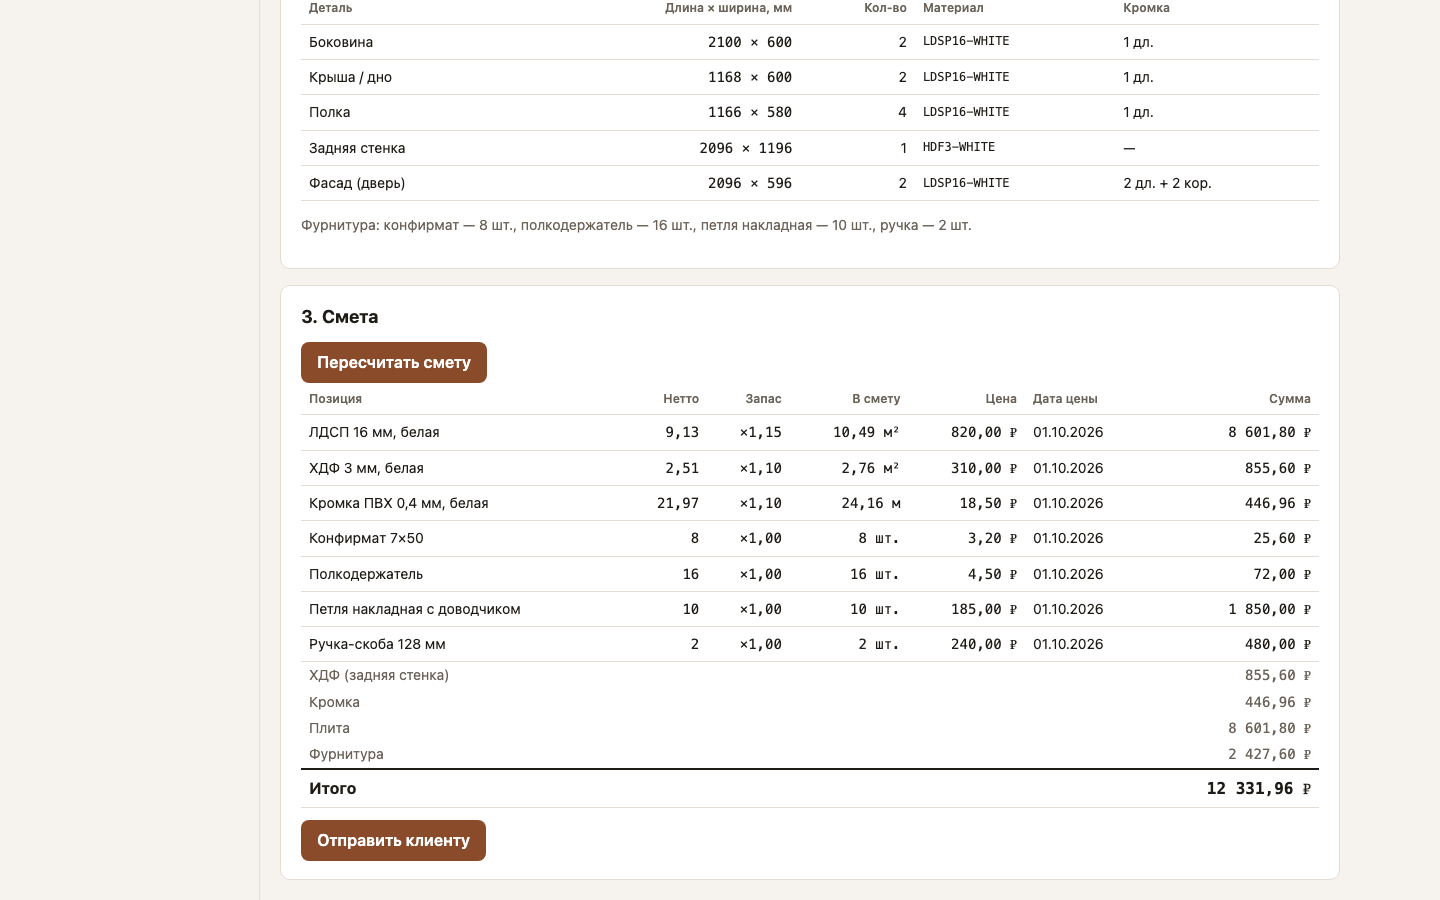
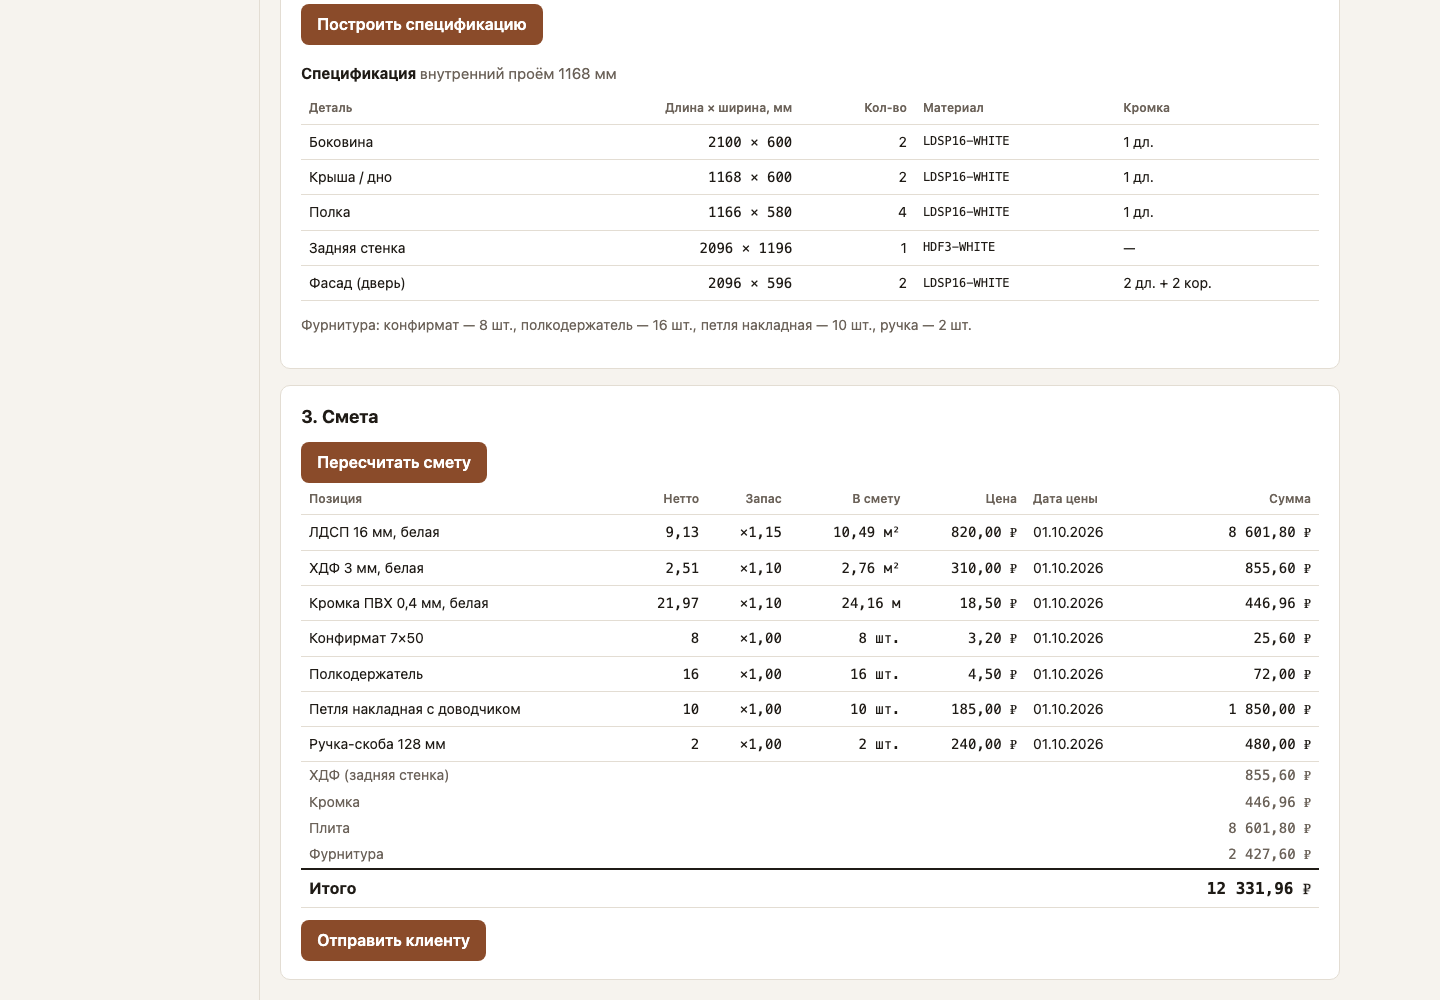
docs: ADR-0001 про стек, внешний аудит в 04, v0.3.2 в релизах, разведённые подписи BPMN
Замечания v0.3.3 описаны как внешний аудит (не Codex), BUG-12 тоже.
Абзац-повтор README убран из ADR-0003. Прогон 05.11: 91 pytest, 97 %, 19 Vitest, 7 e2e.
Смета на скриншоте целиком.

diff --git a/docs/CHANGELOG.md b/docs/CHANGELOG.md
@@ -4,35 +4,35 @@
 Версии — этапы сборки кейса: MVP, исправления по ревью, второй круг ревью.
 
 ## [Unreleased]
-### Added
+### Добавлено
 - Интерфейс `AccountingExporter` и заглушка обмена с учётной системой.
 
 ## [0.3.4] — 2026-11-04
 Находки второго круга ревью Codex.
-### Fixed
+### Исправлено
 - BUG-13: статус «отправлена» ставился до отправки письма. Теперь сначала отправка с ключом идемпотентности, при сбое 502 и прежний статус, повтор разрешён.
 - Параллельные сохранения полей в интерфейсе идут по очереди: поздний ответ раннего запроса не стирает свежие поля.
 - Парсер понимает «120 на 210» (ширина и высота, см → мм), как в примере README.
-### Changed
+### Изменено
 - Контракт: ответ 502 у `POST /requests/{id}/transition`.
 
 ## [0.3.3] — 2026-11-04
-Исправления по повторному ревью.
-### Fixed
+Исправления по внешнему аудиту.
+### Исправлено
 - BUG-12: у числа полок и дверей не было верхней границы, теперь 10 и 4 (как в правилах конструкции), иначе 422.
 - Интеграционные тесты падали на базе с чужой `alembic_version`: перед миграциями схема пересоздаётся (только на базе `*_test`).
 - В итогах сметы подпись «Задняя стенка» стояла рядом с названиями материалов, теперь «ХДФ (задняя стенка)».
-### Changed
+### Изменено
 - Фронтенд собирается на Node 24, как в CI и README.
 - `GET /api/health` в контракте без ответа 422.
 
 ## [0.3.2] — 2026-11-04
-### Fixed
+### Исправлено
 - BUG-11: в смете нетто показывалось сырым Decimal, запас то «×1,15», то «×1,1». Теперь м² и м — 2 знака, штуки — целые, запас ×1,10; расчёт не менялся.
 
 ## [0.3.1] — 2026-11-03
 Исправления по ревью Codex R-01…R-10, см. 04-ai-development.md.
-### Fixed
+### Исправлено
 - BUG-06, BUG-07: смета от заменённой конструкции и двойная отправка — блокировка строки заявки, уведомление после фиксации статуса.
 - BUG-08: интерфейс показывал данные другой заявки при переключении.
 - BUG-09: интеграционные тесты работают только на базе `*_test`.
@@ -40,22 +40,22 @@
 - Необязательное поле можно очистить; все 422 в контракте описаны моделью `Problem`; тест отправки проверяет уведомление.
 
 ## [0.3.0] — 2026-11-03
-### Added
+### Добавлено
 - Смета с запасом, неполным итогом и предупреждением о датах цен; статусы до «отправлена клиенту»; e2e на десктопе и телефоне.
-### Changed
+### Изменено
 - Деньги в копейках, количества `Decimal` (ADR-0003).
-### Fixed
+### Исправлено
 - BUG-01: площадь детали округлялась до суммирования. BUG-05: float терял копейку.
 
 ## [0.2.0] — 2026-11-03
-### Added
+### Добавлено
 - Модель шкафа, спецификация с кромкой, инварианты, статус «конструкция готова».
-### Fixed
+### Исправлено
 - BUG-02: полка шире внутреннего проёма проходила проверку.
 
 ## [0.1.0] — 2026-11-03
-### Added
+### Добавлено
 - Заявка из текста или пустой формы, разбор правилами, источник и фрагмент у поля.
 - Подтверждение и правка полей, статусы «новая» и «разобрана», интерфейс `RequestParser`.
-### Fixed
+### Исправлено
 - BUG-03: сантиметры путались с миллиметрами. BUG-04: повторное подтверждение сбрасывало источник.

diff --git a/README.md b/README.md
@@ -22,7 +22,7 @@
 | Модуль | Что делает | В демо |
 |---|---|---|
 | Приём заявки | разбор текста, у поля источник, предположение ждёт подтверждения | ✅ |
-| Конструкция | параметры шкафа → детали с кромкой, проверка инвариантов | ✅ |
+| Конструкция | параметры шкафа → детали с кромкой, проверка правил конструкции (полка не шире проёма, не больше 10 полок и 4 дверей) | ✅ |
 | Смета | плита, задняя стенка (ХДФ), кромка, фурнитура, запас; неполный итог, цены разных дат | ✅ |
 | Статусы | от «новая» до «отправлена», переход проверяет сервер | ✅ |
 | Справочник материалов с историей цен | | ⬜ |
@@ -50,8 +50,8 @@
 
 - Адаптер языковой модели — заглушка с TODO: сначала замер доли найденных полей на реальных заявках.
 - Нет входа и ролей, это первый шаг v0.4.
-- Отправка сметы: статус `sent` ставится только после успешной отправки, повтор идёт с ключом
-  идемпотентности (BUG-13). Полноценная outbox-таблица с фоновым отправщиком — следующий шаг:
+- Отправка сметы: статус `sent` ставится только после успешной отправки, повтор идёт с ключом,
+  который не даёт отправить письмо дважды (BUG-13). Очередь отправки в базе с фоновым отправщиком (outbox) — следующий шаг:
   пока отправка идёт внутри запроса под блокировкой строки заявки.
 - Экрана справочника цен нет, цены в начальных данных. Отправка сметы пишет в журнал.
 - Модель конструкции одна — шкаф. Типы ответов API на фронте описаны руками, клиент по
@@ -90,5 +90,5 @@ Vite · pytest, Vitest, Playwright · Docker Compose.
 
 ---
 
-Один из трёх кейсов витрины [ai-product-engineering](https://github.com/Georgy213123/ai-product-engineering):
-там же процесс работы с агентами и два других кейса.
+Один из трёх проектов портфолио [ai-product-engineering](https://github.com/Georgy213123/ai-product-engineering):
+там же процесс работы с агентами и два других проекта.

diff --git a/docs/03-design/adr/0001-stack.md b/docs/03-design/adr/0001-stack.md
@@ -1,0 +1,20 @@
+# ADR-0001. Стек: FastAPI + PostgreSQL + React
+
+Статус: принято, 2026-11-03.
+
+**Контекст.** Нужны REST API, расчёт сметы без потери копеек, блокировки строк при параллельных
+действиях менеджеров и интерфейс, которым удобно пользоваться с телефона. Код пишут агенты,
+поэтому стек должен ловить ошибки до запуска.
+
+**Варианты.** 1) FastAPI + PostgreSQL + React. 2) Django REST Framework. 3) NestJS + Prisma.
+
+**Решение.** Вариант 1: Python 3.12, FastAPI, SQLAlchemy 2 и Alembic, PostgreSQL 16; фронт —
+React + TypeScript strict на Vite; e2e — Playwright. OpenAPI выгружается из кода и сверяется
+тестом, mypy strict ловит ошибки сгенерированного кода. `Decimal` и `NUMERIC` есть из коробки
+([ADR-0003](0003-money-in-kopecks.md)), `SELECT … FOR UPDATE` нужен для сметы и отправки.
+
+**Последствия.**
+- Админку справочника, как в Django, придётся писать самому.
+- Два рантайма (Python и Node), два набора линтеров и lock-файлов.
+- Интеграционные тесты идут на настоящем PostgreSQL: гонки на SQLite в памяти воспроизводятся иначе
+  ([04](../../04-ai-development.md#что-я-из-этого-вынес)).

diff --git a/docs/05-testing.md b/docs/05-testing.md
@@ -32,15 +32,15 @@
 | US-06 | `test_integrations.py` | `test_us04_incomplete_*` | «смета без цены…» |
 | R-01…R-10 | `test_review_fixes.py`, `App.test.tsx` | `test_review_fixes.py` | — |
 
-## Прогон 2026-11-04, v0.3.2
+## Прогон 2026-11-05, v0.3.4
 
-macOS, PostgreSQL 16, Chromium из Playwright 1.64.
+macOS, PostgreSQL 16, Chromium из Playwright 1.64.1.
 
 | Команда | Результат |
 |---|---|
 | `make lint` | ruff, mypy strict, eslint, tsc, prettier — без замечаний |
-| `make test` | pytest 91 passed за 6,73 с (74 unit, 17 integration), покрытие `app/` 97 %; Vitest 19 passed |
-| `make e2e` | 7 passed, 1 skipped за 12,9 с: мобильный сценарий на десктопе пропускается намеренно |
+| `make test` | pytest 91 passed за 6,01 с (73 unit, 18 integration), покрытие `app/` 97 %; Vitest 19 passed |
+| `make e2e` | 7 passed, 1 skipped за 11,1 с: мобильный сценарий на десктопе пропускается намеренно |
 | `make audit` (03.11) | pip-audit чисто; npm: 12 moderate в инструментах ESLint |
 
 Стенд целиком (`docker compose up --wait`, healthcheck у базы и API) поднимает отдельный job CI.

diff --git a/docs/06-bugs.md b/docs/06-bugs.md
@@ -38,7 +38,7 @@
 - **Фикс.** Операции, меняющие заявку, берут строку `SELECT … FOR UPDATE` (`app/services.py`).
 - **Тест.** [`test_review_fixes.py::test_r03_estimate_is_not_built_from_replaced_design`](../backend/tests/integration/test_review_fixes.py)
 
-## BUG-12. Нет верхней границы у полок и дверей (повторное ревью)
+## BUG-12. Нет верхней границы у полок и дверей (внешний аудит)
 
 - **Симптом.** `PUT /design` с `shelves: 1000000000` проходил разбор запроса и доходил до расчёта.
 - **Причина.** В схеме `ge=0` без `le`; предел 10 и 4 проверяла только конструкция, уже после входа.
@@ -54,4 +54,4 @@
 
 BUG-04 (повторное подтверждение сбрасывало источник) и BUG-11 (нетто «9,125152» и запас «×1,1»
 в смете, тест `format.test.ts`) — в [CHANGELOG](CHANGELOG.md),
-все 13 находок ревью Codex — в [04-ai-development](04-ai-development.md).
+все 13 находок ревью Codex и 5 замечаний внешнего аудита — в [04-ai-development](04-ai-development.md).

diff --git a/docs/07-releases.md b/docs/07-releases.md
@@ -8,7 +8,8 @@ SemVer, изменения — в [CHANGELOG.md](CHANGELOG.md).
 | v0.2 | модель шкафа, спецификация, инварианты | другие изделия |
 | v0.3 | смета, неполный итог, отправка через заглушку | экран справочника, PDF сметы |
 | v0.3.1 | исправления по ревью Codex | — |
-| v0.3.3 | исправления по повторному ревью | — |
+| v0.3.2 | формат сметы: нетто с двумя знаками, штуки целые, запас ×1,10 (BUG-11) | — |
+| v0.3.3 | исправления по внешнему аудиту: верхние границы полок и дверей (BUG-12), устойчивые интеграционные тесты, подписи сметы | — |
 | v0.3.4 | второй круг ревью: отправка до смены статуса, очередь сохранений, формат «N на M» | outbox с фоновым отправщиком |
 
 Дальше: v0.4 — вход, роли и экран справочника с историей цен; v0.5 — адаптер модели и замер

diff --git a/docs/03-design/adr/0003-money-in-kopecks.md b/docs/03-design/adr/0003-money-in-kopecks.md
@@ -6,9 +6,6 @@
 цену во float и теряла копейку ([BUG-05](../../06-bugs.md)): 1,15 м² × 905,50 ₽ давало
 1041,32 вместо 1041,33.
 
-Во float теряется копейка на суммах, поэтому итоги в целых копейках, количества в Decimal.
-Следующий шаг — тест на сходимость с эталонной сметой.
-
 **Варианты.** 1) float и `round(x, 2)`. 2) `Decimal` в рублях. 3) Цена в копейках
 (`BIGINT`), количества `Decimal` (`NUMERIC`).
 
